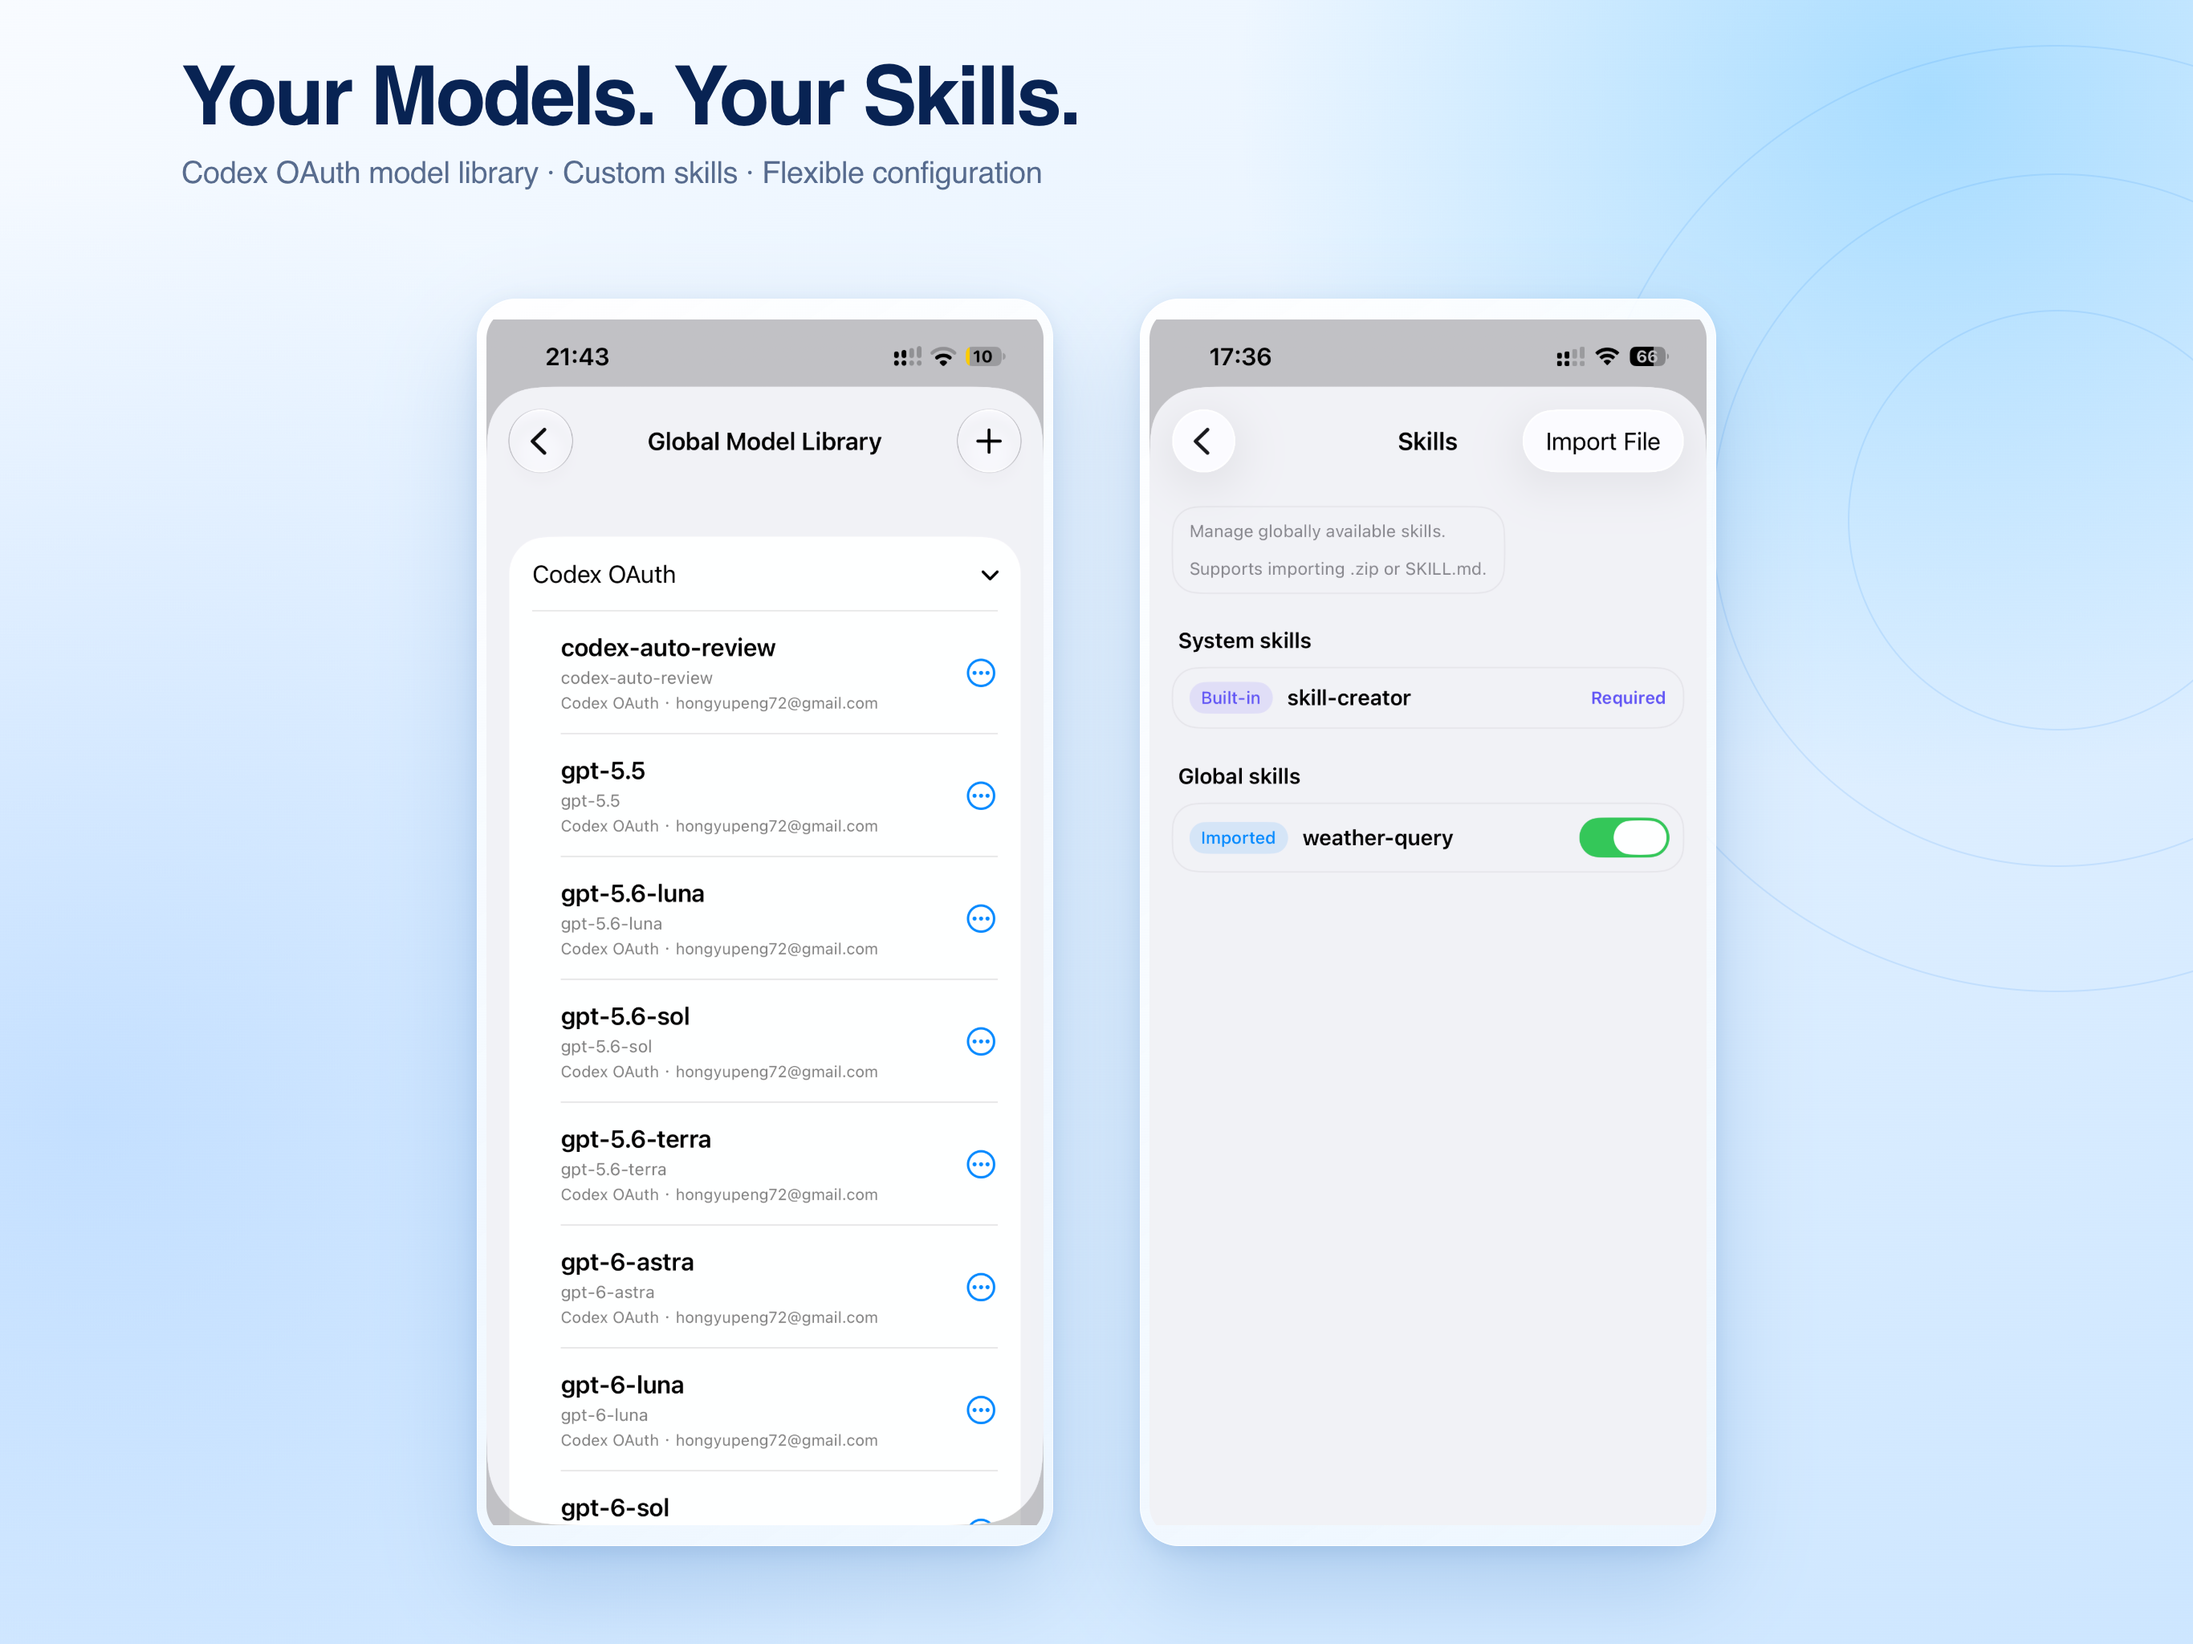
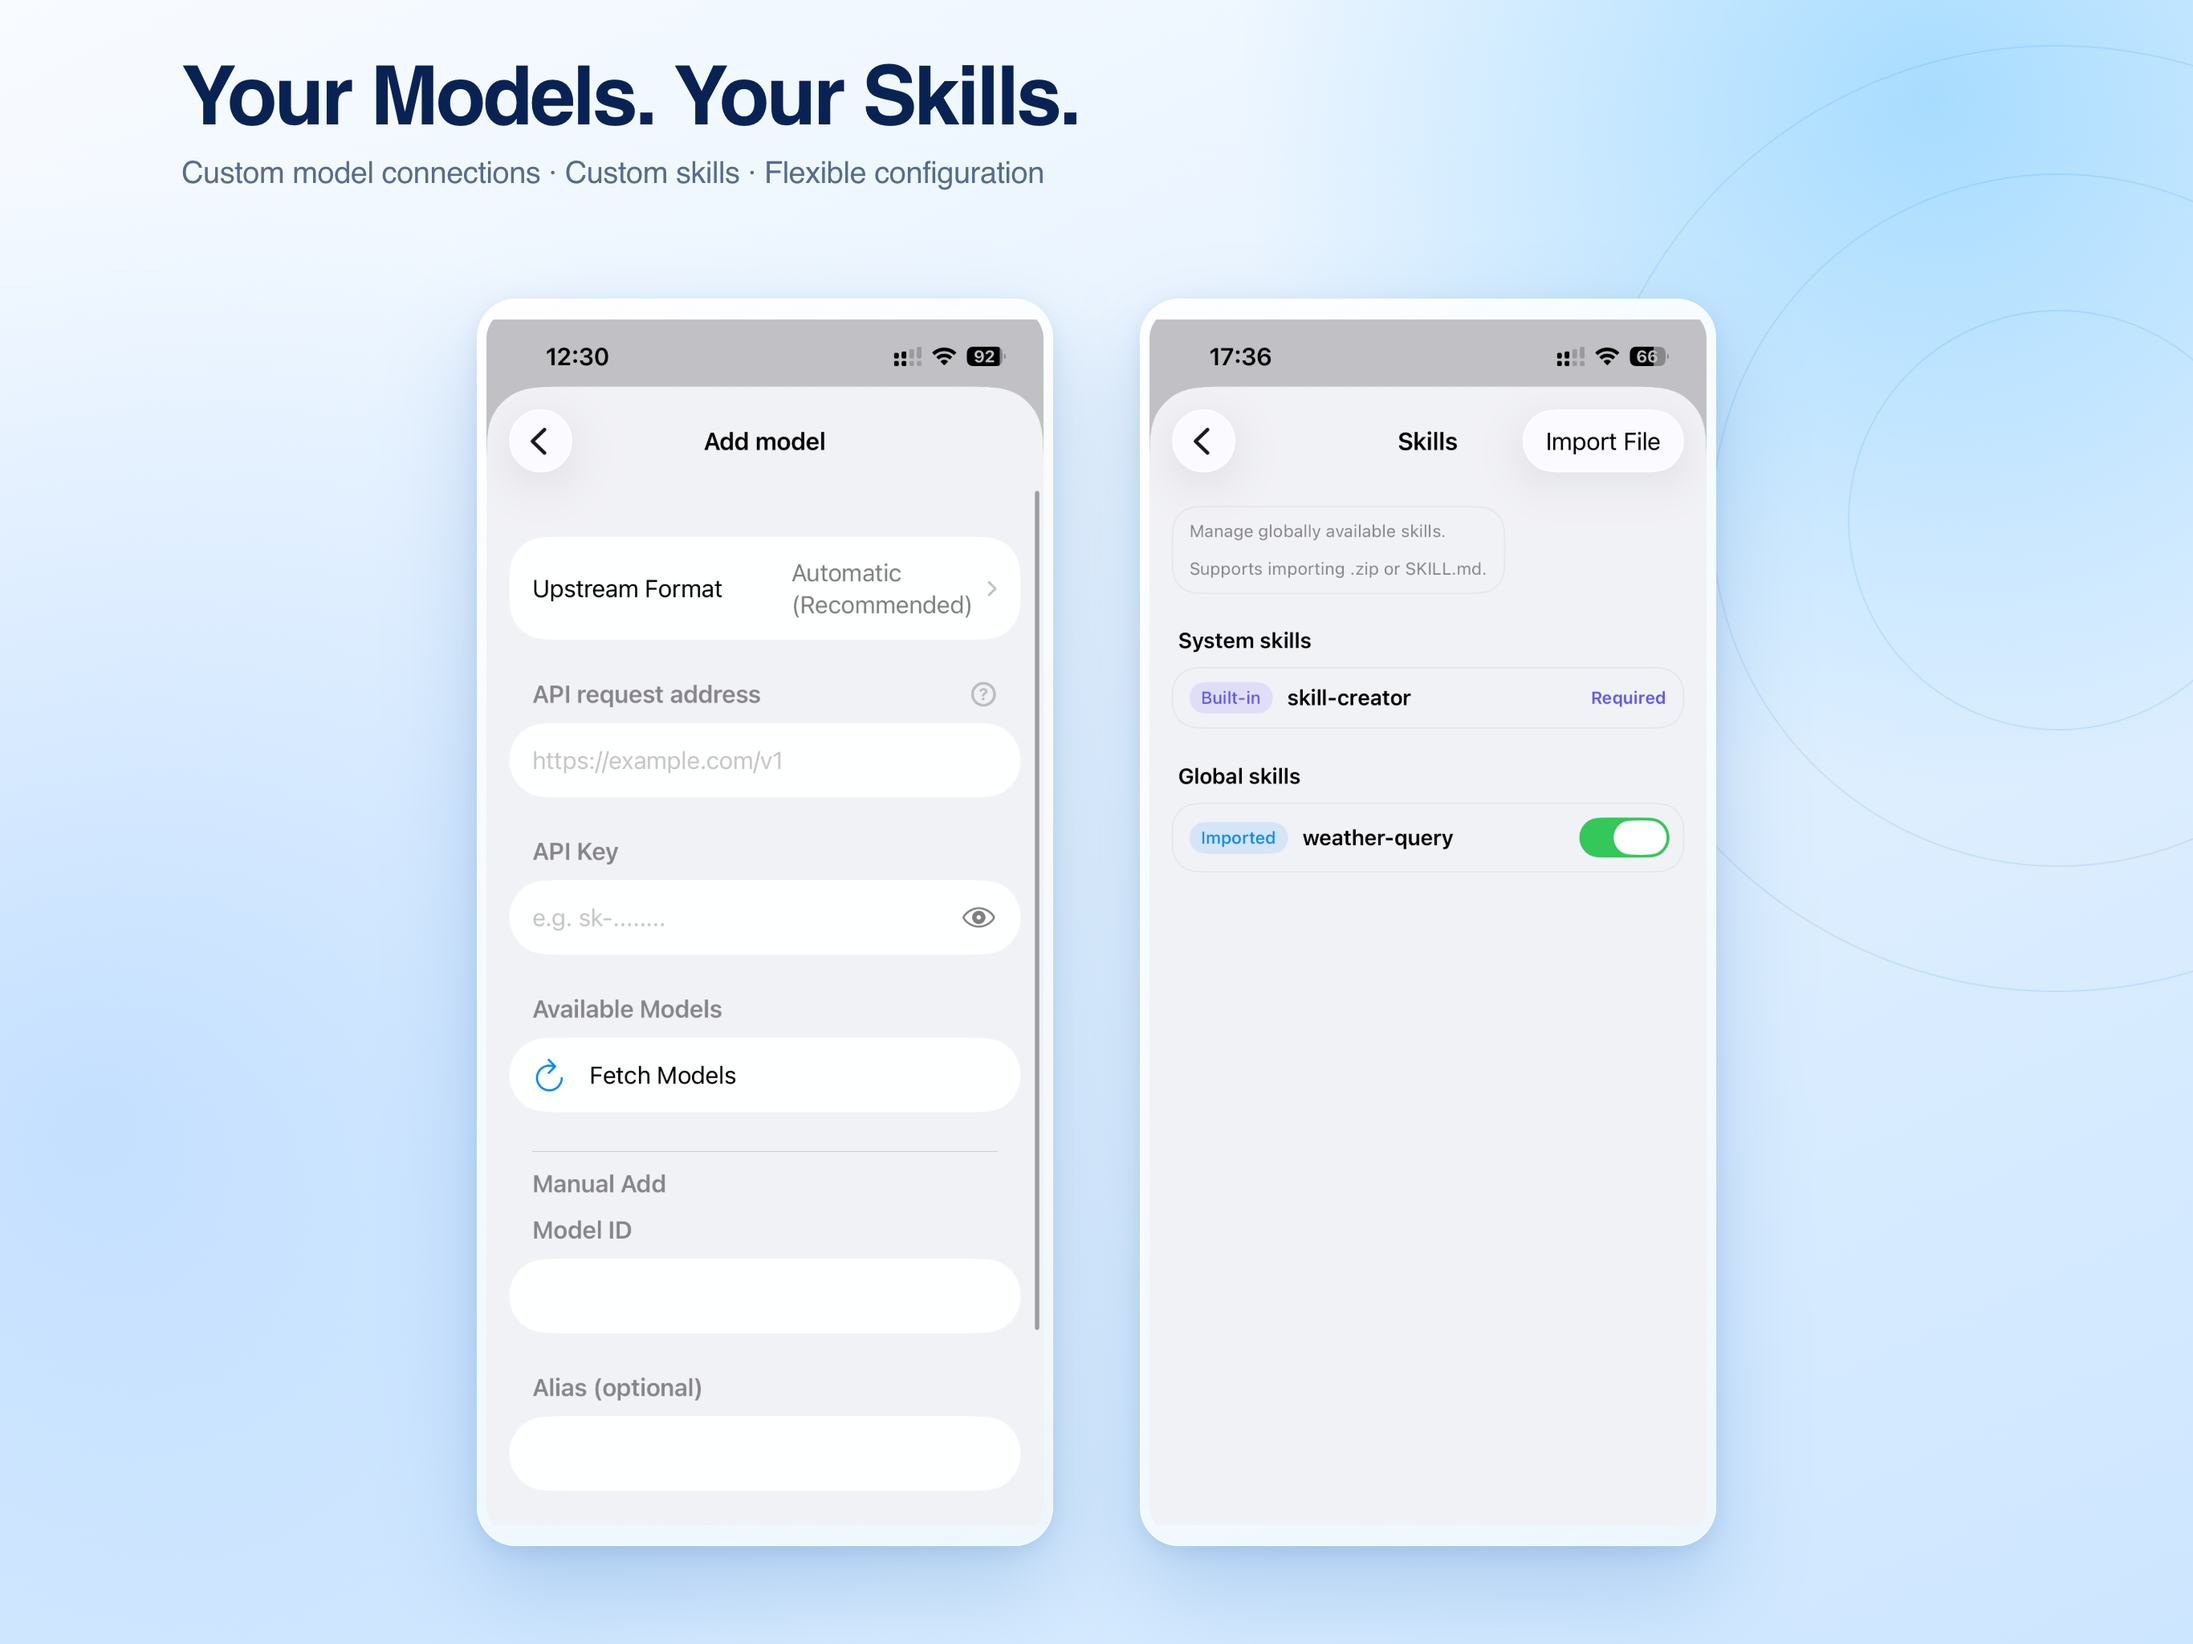
聊天/专业模式取消不合理的轮次上限：模型轮次999、工具调用9999

diff --git a/Design/ProductScreenshots/iphone.html b/Design/ProductScreenshots/iphone.html
@@ -184,13 +184,13 @@
         bionic: { tone: "deep", title: "仿生模式，\n日常相伴", subtitle: "自定义角色，保留记忆，分享日常瞬间", image: "assets/26.10/bionic-zh.PNG" },
         details: { tone: "light", title: "聊天设置，\n按你的节奏", subtitle: "记忆、日记、内容查找与回复节奏，随时管理", image: "assets/26.10/details-zh.PNG" },
         reasoning: { tone: "deep", title: "看见任务，\n一步步完成", subtitle: "进度、工具调用与结果，汇成清晰的执行时间线", image: "assets/26.10/reasoning-zh.PNG" },
-        models: { tone: "light", title: "Codex OAuth，\n直接连接模型", subtitle: "登录账号，浏览模型库，在不同方案中复用模型", image: "assets/26.10/models-zh.PNG" }
+        models: { tone: "light", title: "模型配置，\n按需接入", subtitle: "填写服务地址，获取可用模型，灵活设置连接", image: "assets/iphone-zh.PNG" }
       },
       en: {
         bionic: { tone: "deep", title: "Bionic Mode.\nA Familiar Presence.", subtitle: "Personalized characters, memories, and everyday moments.", image: "assets/26.10/bionic-en.PNG" },
         details: { tone: "light", title: "Memories, Diary\nand Your Own Rhythm.", subtitle: "Search your chats, explore memories and diaries, and adjust reply timing.", image: "assets/26.10/details-en.PNG" },
         reasoning: { tone: "deep", title: "Follow Every\nStep of the Task.", subtitle: "View progress, tool calls, and results in a single timeline.", image: "assets/26.10/reasoning-en.PNG" },
-        models: { tone: "light", title: "Connect Models\nwith Codex OAuth.", subtitle: "Sign in, browse your model library, and reuse models across plans.", image: "assets/26.10/models-en.PNG" }
+        models: { tone: "light", title: "Model Setup.\nMade Flexible.", subtitle: "Set your service address, fetch available models, and configure your connection.", image: "assets/iphone-en.PNG" }
       }
     };
     const page = releasePages[language][params.get("page")] || pages[language][0];

diff --git a/Design/ProductScreenshots/ipad-composite.html b/Design/ProductScreenshots/ipad-composite.html
@@ -131,12 +131,12 @@
       zh: [
         { tone: "deep", title: "仿生模式，日常相伴", subtitle: "自定义角色 · 记忆与日记 · 自由调整回复节奏", images: ["bionic-zh.PNG", "details-zh.PNG"] },
         { tone: "deep", title: "任务进度，清晰可见", subtitle: "从工具调用到最终结果，随时查看任务的执行过程", images: ["agent-zh.PNG", "reasoning-zh.PNG"] },
-        { tone: "light", title: "模型与技能，自由组合", subtitle: "Codex OAuth 模型库 · 自定义技能 · 灵活配置", images: ["models-zh.PNG", "skills-zh.PNG"] }
+        { tone: "light", title: "模型与技能，自由组合", subtitle: "自定义模型接入 · 自定义技能 · 灵活配置", images: ["../iphone-zh.PNG", "skills-zh.PNG"] }
       ],
       en: [
         { tone: "deep", title: "Bionic Mode. Everyday Connection.", subtitle: "Personalized characters · Memories and diaries · Your own reply timing", images: ["bionic-en.PNG", "details-en.PNG"] },
         { tone: "deep", title: "Keep Every Task in View", subtitle: "Follow tool calls, track progress, and see the final result.", images: ["agent-en.PNG", "reasoning-en.PNG"] },
-        { tone: "light", title: "Your Models. Your Skills.", subtitle: "Codex OAuth model library · Custom skills · Flexible configuration", images: ["models-en.PNG", "skills-en.PNG"] }
+        { tone: "light", title: "Your Models. Your Skills.", subtitle: "Custom model connections · Custom skills · Flexible configuration", images: ["../iphone-en.PNG", "skills-en.PNG"] }
       ]
     };
     const params = new URLSearchParams(location.search);

diff --git a/Design/ProductScreenshots/render-release.js b/Design/ProductScreenshots/render-release.js
@@ -19,7 +19,7 @@ const added = [
   ['bionic', '02-Bionic-Mode.png'],
   ['details', '03-Conversation-Details.png'],
   ['reasoning', '04-Execution-Timeline.png'],
-  ['models', '08-Codex-OAuth.png']
+  ['models', '08-Model-Setup.png']
 ];
 
 async function render(page, template, params, width, height, destination) {
@@ -50,6 +50,8 @@ async function render(page, template, params, width, height, destination) {
           : path.join(repo, 'Screenshots/Product/zh-CN', chinese);
         await fs.copyFile(source, path.join(phoneOutput, filename));
       }
+      // Remove superseded artwork so a bulk upload cannot include account details.
+      await fs.rm(path.join(phoneOutput, '08-Codex-OAuth.png'), { force: true });
       for (const [topic, filename] of added) {
         await render(page, 'iphone.html', { lang: queryLang, page: topic }, 1284, 2778, path.join(phoneOutput, filename));
       }

diff --git a/PalmiAgent/Core/Agent/AgentRunBudget.swift b/PalmiAgent/Core/Agent/AgentRunBudget.swift
@@ -6,8 +6,8 @@ struct AgentRunLimits: Equatable, Sendable {
     let maximumElapsedNanoseconds: UInt64
 
     static let `default` = AgentRunLimits(
-        maximumIterations: 24,
-        maximumToolCalls: 64,
+        maximumIterations: 999,
+        maximumToolCalls: 9_999,
         maximumElapsedNanoseconds: 30 * 60 * 1_000_000_000
     )
 }

diff --git a/Design/ProductScreenshots/README.md b/Design/ProductScreenshots/README.md
@@ -42,6 +42,12 @@ The renderer starts a separate headless Chrome process and reads the local HTML 
 - `iPad/en/` and `iPad/zh-CN/`: 4 images each, at 2732 × 2048.
 - `Creative/en/` and `Creative/zh-CN/`: `Header.png` at 3840 × 1646 and `Search.png` at 3840 × 2560.
 
-The 10-image iPhone selection retains Agent tasks, playable games, multi-agent work, multimodal input, model protocols, and skills. Bionic conversations, conversation details, execution timelines, and Codex OAuth replace the older OCR, thinking-effort, and model-plan artwork. Original images in `Screenshots/Product/` remain available.
+The 10-image iPhone selection retains Agent tasks, playable games, multi-agent work, multimodal input, model protocols, and skills. Bionic conversations, conversation details, execution timelines, and model setup replace the older OCR, thinking-effort, and model-plan artwork. Original images in `Screenshots/Product/` remain available.
 
 Dimensions were checked against Apple's [screenshot specifications](https://developer.apple.com/help/app-store-connect/reference/app-information/screenshot-specifications) and [asset best practices](https://developer.apple.com/app-store/asset-best-practices/).
+
+## 2026-10-10 review artwork correction
+
+The model-setup theme uses the existing real Add Model capture instead of the account-connected model library. This removes personal account email addresses and the OAuth promotion from both localized iPhone image 08 and iPad image 03. The renderer removes the superseded `08-Codex-OAuth.png` output to prevent accidental upload. The original model-library captures in `assets/26.10/models-*.PNG` are private source references and must not be uploaded.
+
+Use `Screenshots/AppStore/26.10/` for release uploads. Artwork edits do not disable any runtime service and do not establish compliance with the China storefront requirement in the review message.
